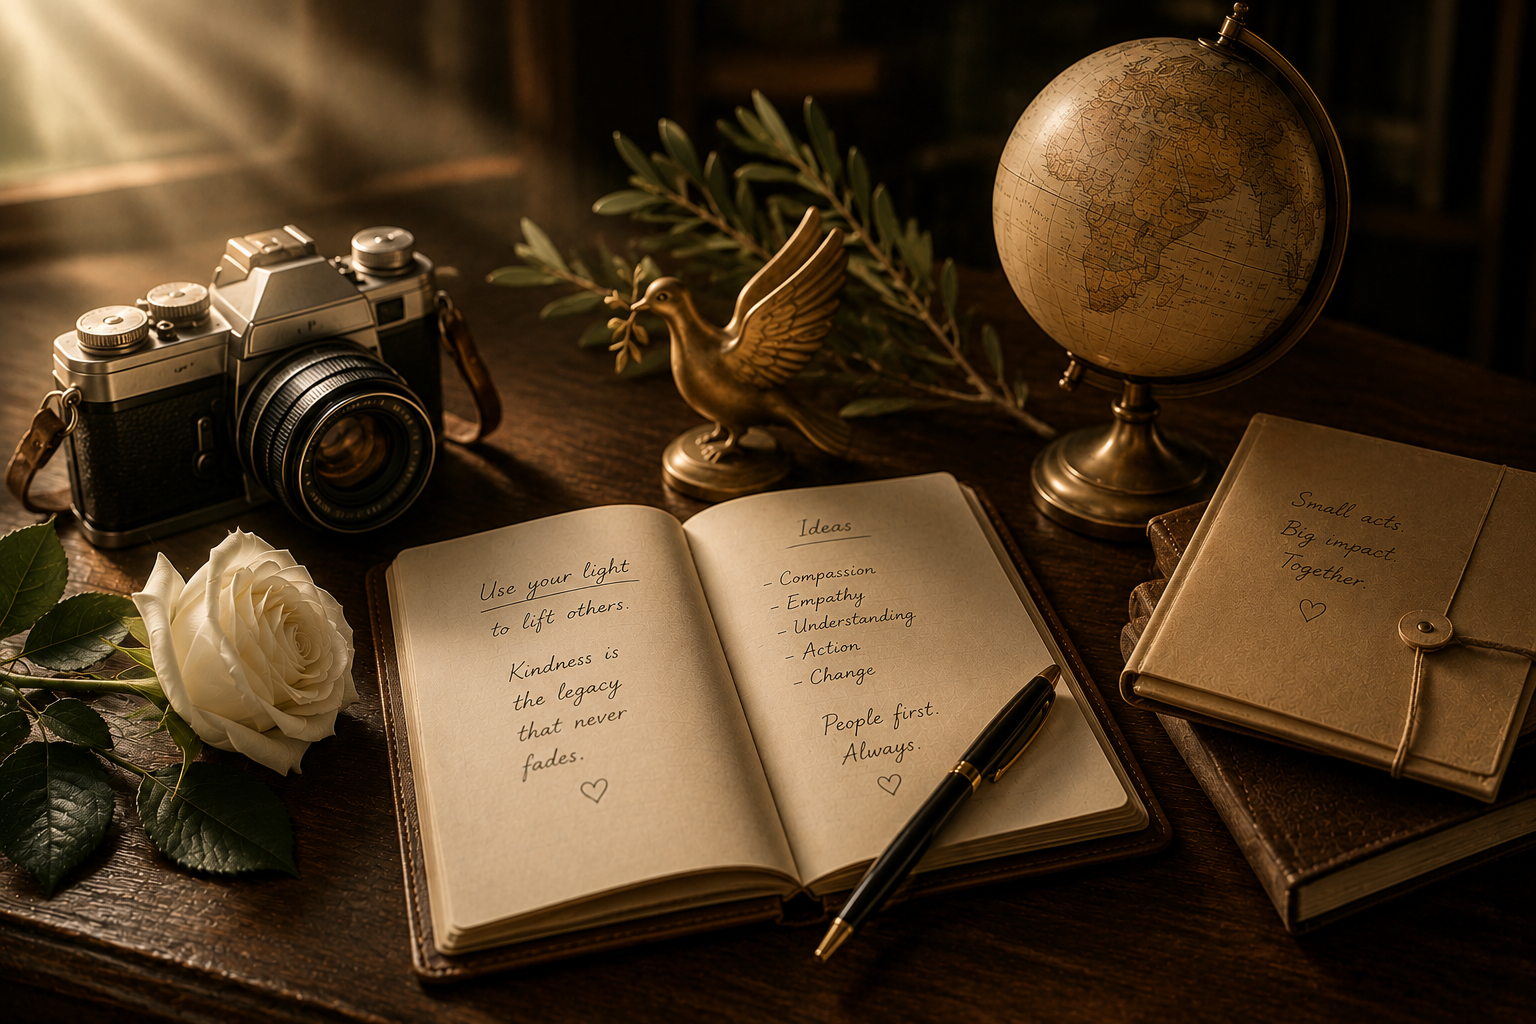
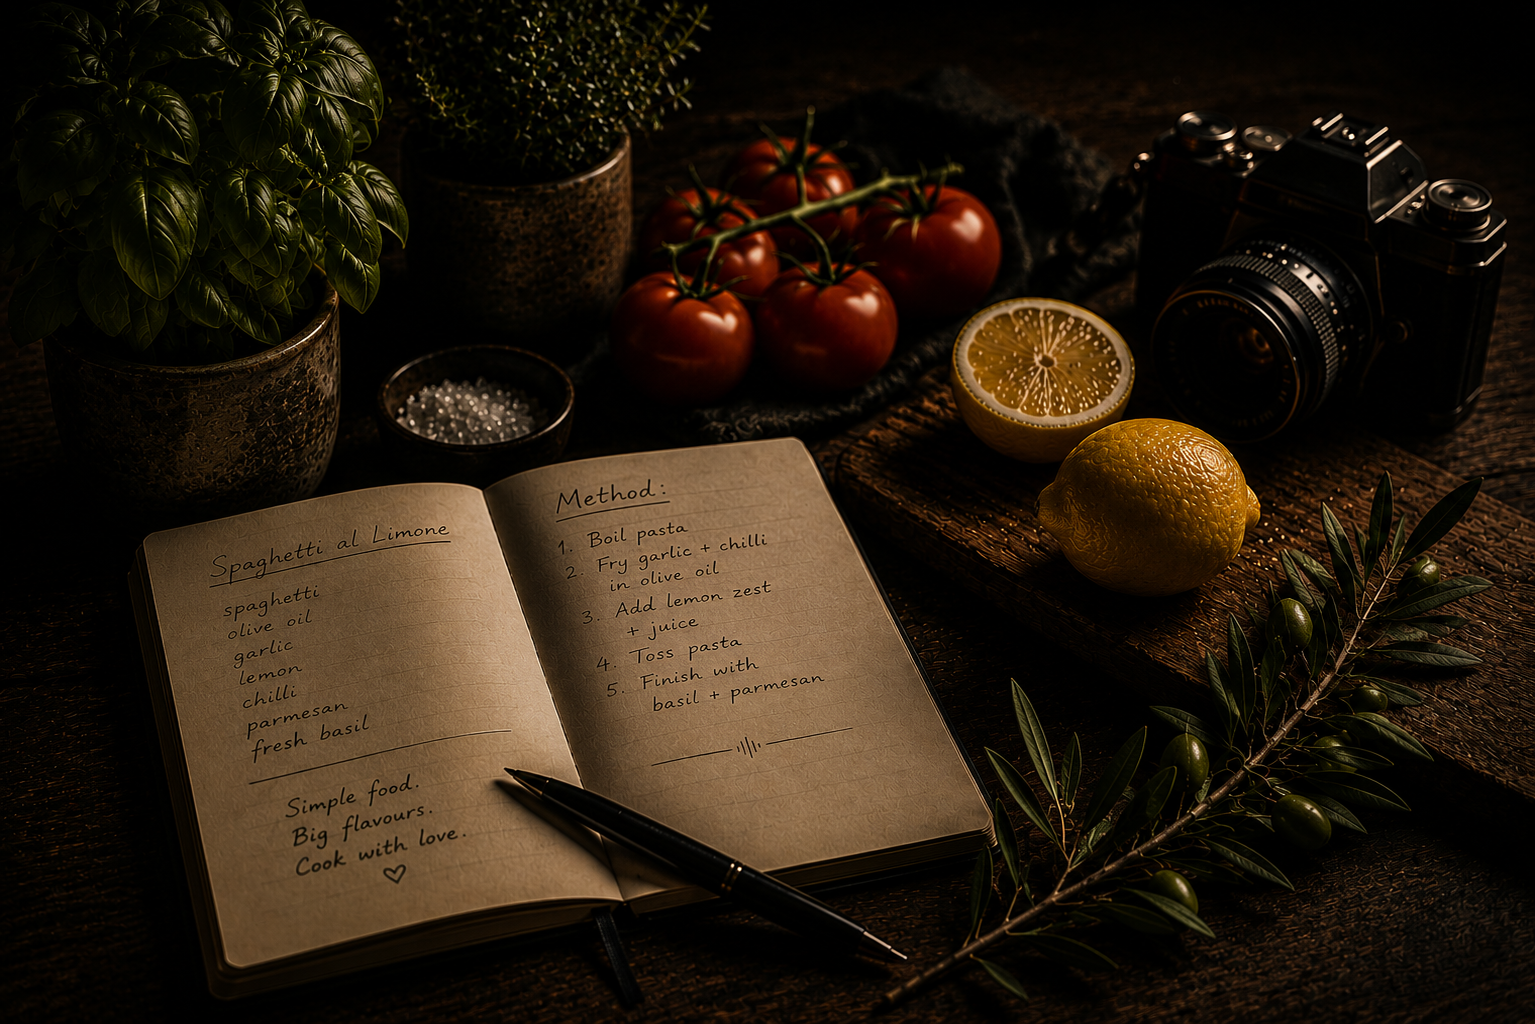
content: replace Princess Diana with Jamie Oliver on Day 13 Examples

diff --git a/src/screens/SessionView.jsx b/src/screens/SessionView.jsx
@@ -3975,17 +3975,17 @@ setAmbitionSaved(true); } catch {}
             technique:"Treat every meeting, project, and conversation as an audition for your reputation. Deliver great work, be generous with your time, and leave people feeling respected. Ask yourself: \"If my name came up in a room I wasn't in, what would people say?\"",
             lesson:"The most valuable opportunities rarely come from applying online — they come through people who know your work and trust your character. Build a reputation that people are proud to recommend, because the strongest professional brand is the one that continues speaking for you when you're not in the room.",
           },
-          { id:"diana", img:"/d13-diana.png", imgPos:"center center", name:"Princess Diana", superpower:"Master of Visibility",
-            superpowerText:"Visibility has the greatest impact when it stops being about you.",
-            summary:"She used public attention to change public conversations — bringing compassion to causes many had ignored.",
-            quote:"\"Visibility has the greatest impact when it stops being about you and starts becoming about something bigger than yourself.\"",
-            exploreLabel:"Explore her approach",
-            body1:"Princess Diana understood something few people ever master: visibility is a powerful tool when it's used to serve others. Long before social media, she recognised that every appearance, photograph, and conversation was an opportunity to shine a light on causes that might otherwise go unnoticed.",
-            body2:"She didn't seek attention simply to be seen. She used public attention to change public conversations — bringing compassion, empathy, and humanity to issues that many people had ignored.",
-            body3:"Being visible isn't about collecting followers or standing in the spotlight. It's about deciding what people will remember after they've looked your way. The most influential people use their platform to educate, inspire, and create opportunities for others — not simply to promote themselves.",
-            whyItWorks:"Visibility creates opportunity, but purpose creates influence. People are naturally drawn to those who stand for something beyond personal success. When your expertise is paired with generosity, authenticity, and a genuine desire to help others, your visibility becomes meaningful rather than performative. The result isn't just recognition — it's trust, credibility, and lasting influence.",
-            technique:"Think about what you want to become known for beyond your job title. Share ideas that help others. Celebrate your colleagues' successes. Speak about work that matters. Use your LinkedIn posts, presentations, conversations, and meetings to create value rather than simply seeking attention. Ask yourself: \"If more people noticed my work tomorrow, what message would I want them to remember?\"",
-            lesson:"Exposure isn't the goal — impact is. The most respected professionals don't chase visibility for its own sake. They earn attention by consistently adding value and using their platform to elevate ideas, people, and causes that matter. Build a reputation for making others better, and your influence will continue growing long after the spotlight has moved on.",
+          { id:"diana", img:"/d13-diana.png", imgPos:"center center", name:"Jamie Oliver", superpower:"Master of Approachable Authority",
+            superpowerText:"People don't trust you because you sound clever. They trust you because they understand you.",
+            summary:"He built one of the world's most recognisable personal brands without trying to sound like the smartest person in the room.",
+            quote:"\"People don't trust you because you sound clever. They trust you because they understand you.\"",
+            exploreLabel:"Explore his approach",
+            body1:"Jamie Oliver built one of the world's most recognisable personal brands without trying to sound like the smartest person in the room. He talked about food the way you'd talk to a friend — no jargon, no complicated language, just genuine enthusiasm and practical advice.",
+            body2:"Open about living with dyslexia and struggling at school, Jamie never hid behind technical language to sound credible. Instead, he built trust by making complex ideas simple. That same clear communication helped turn his campaign for healthier school meals into real government policy.",
+            body3:"Visibility isn't about sounding impressive. It's about communicating in a way that people remember, trust, and want to share. People connect with communicators who make them feel capable, not intimidated.",
+            whyItWorks:"Simple language builds trust, and trust creates opportunities. When people understand your message, they're far more likely to remember it — and recommend you. Don't borrow complicated words to sound more credible. Explain ideas the way you'd naturally explain them to a colleague over coffee.",
+            technique:"Before your next meeting or presentation, ask yourself: \"Am I trying to impress people, or help them understand?\" Strip out jargon. Use the words you'd use with a friend. The clearer your language, the stronger your authority.",
+            lesson:"Authority doesn't come from using bigger words — it comes from making ideas easier to understand. The communicators people remember are the ones who make complex things feel simple. When people understand you, they trust you. When they trust you, they recommend you.",
           },
         ];
         const openReading = (id) => {
